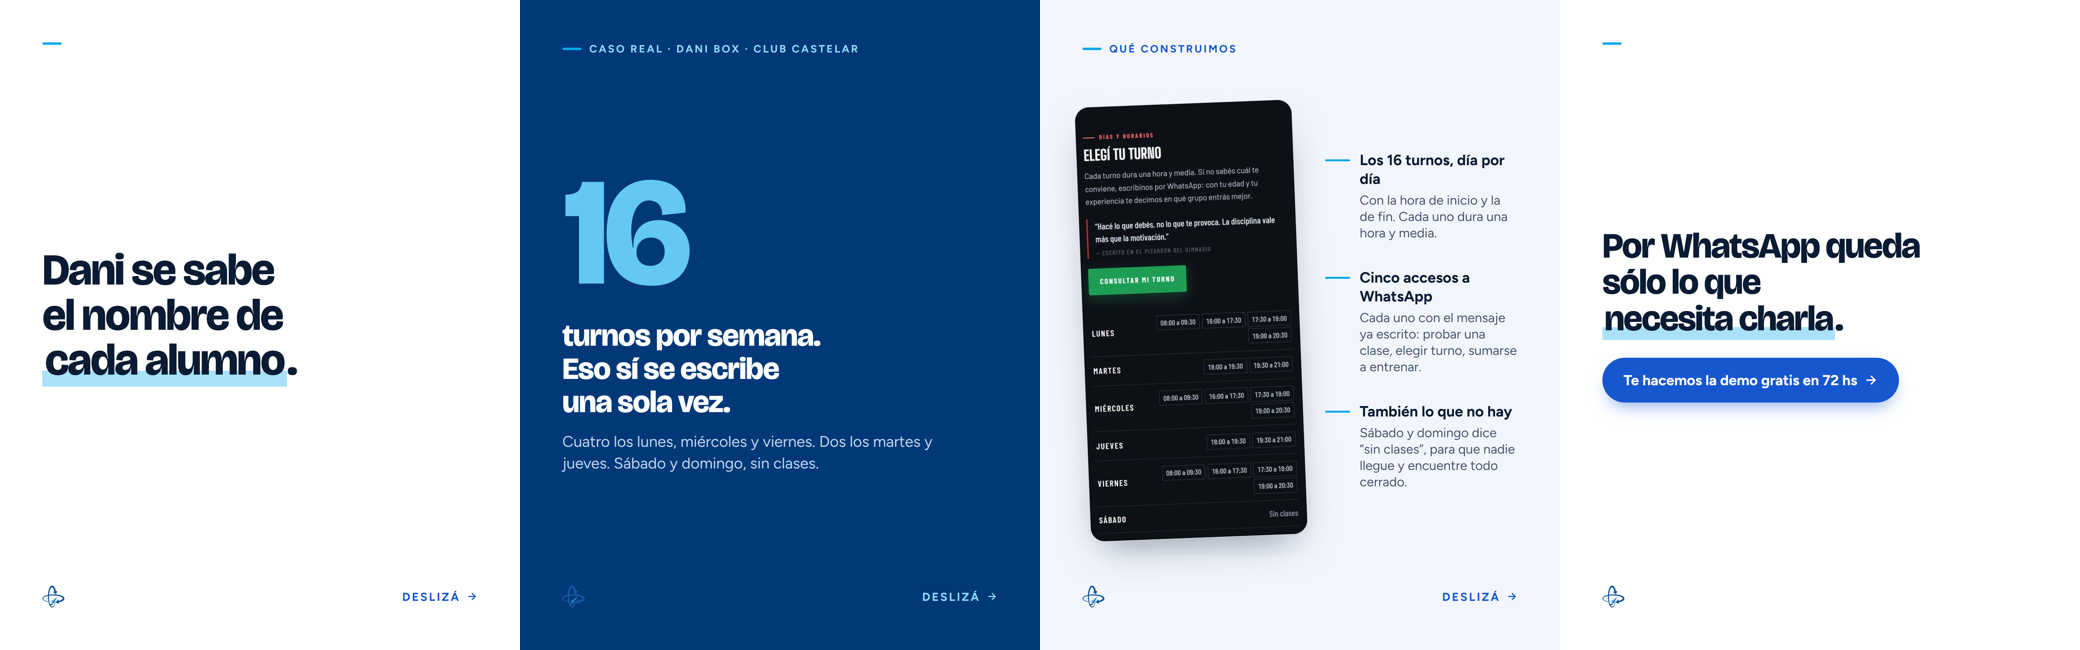
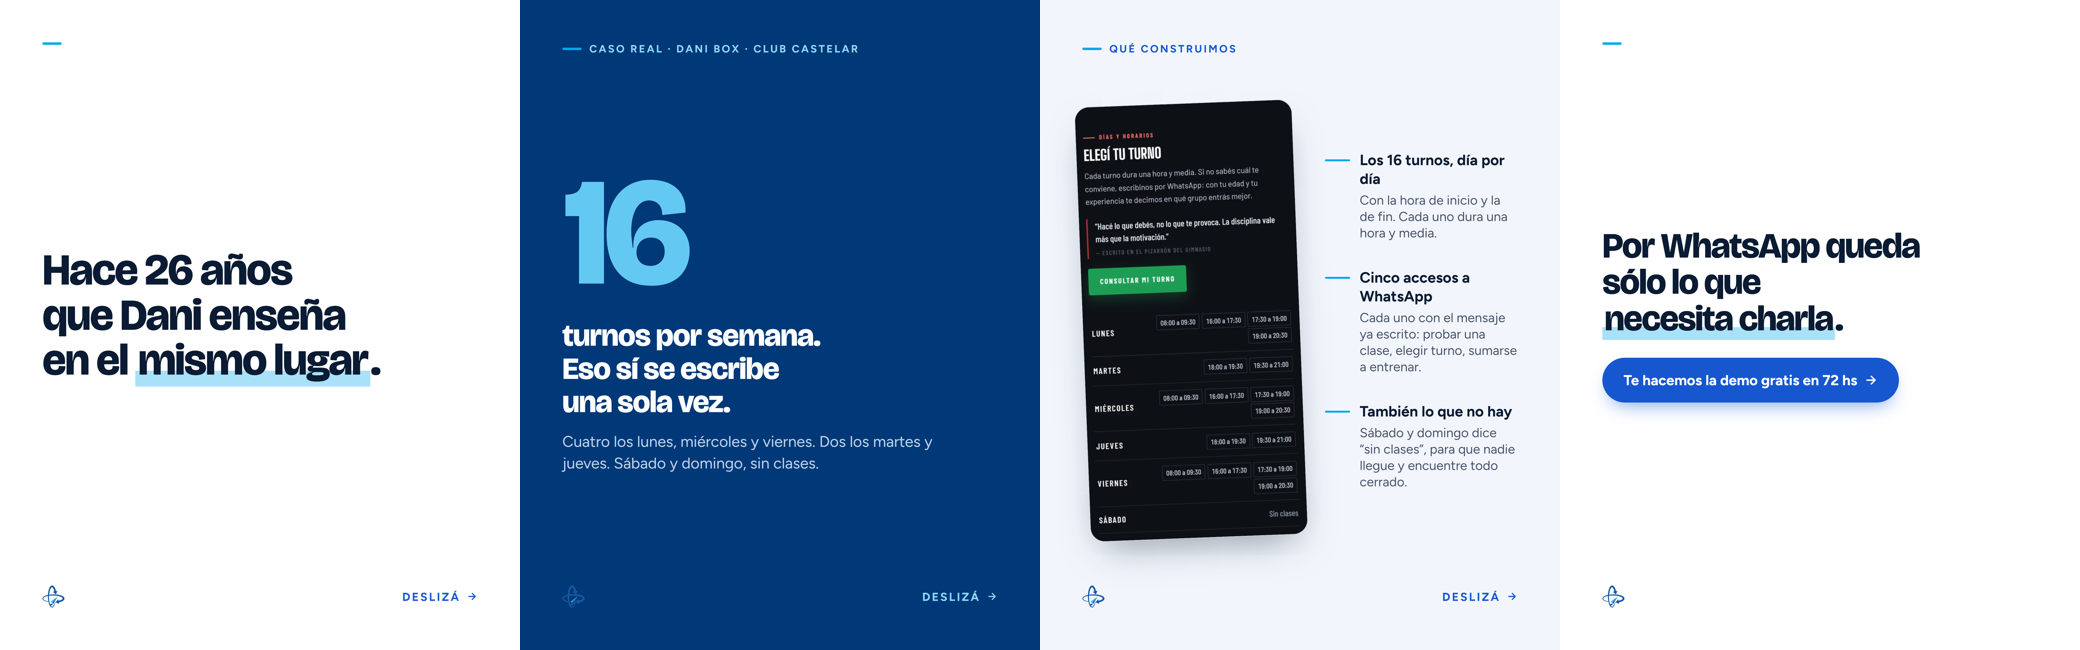
Hook B: 26 anos ensenando en el mismo lugar
Mateo confirma 26, no 25. La web de Dani BOX todavia dice 25 en el hero
y en la seccion del profe: hay que corregirla.

Changed region(s): [[0.0, 0.3692, 0.1875, 0.6154]]

diff --git a/contenido/carruseles/04-danibox/index.html b/contenido/carruseles/04-danibox/index.html
@@ -122,7 +122,7 @@ ol.pasos .pa{font-weight:400;color:var(--ink-2);display:block;font-size:30px;mar
 }
 </style><section class="slide ">
   <div class="eyebrow"><i class="dash"></i></div>
-  <div class="body-zone"><h1 class="lg">Dani se sabe<br>el nombre de<br><span class="mark">cada alumno</span>.</h1></div>
+  <div class="body-zone"><h1 class="lg">Hace 26 años<br>que Dani enseña<br>en el <span class="mark">mismo lugar</span>.</h1></div>
   <div class="foot">
[1 lines of base64/hex data omitted]
     <div class="swipe">Deslizá <svg class="arw" viewBox="0 0 24 24" fill="none" stroke="currentColor" stroke-width="2.6" stroke-linecap="round" stroke-linejoin="round"><path d="M4 12h14M12 5l7 7-7 7"/></svg></div>

diff --git a/contenido/carruseles/04-danibox/make.py b/contenido/carruseles/04-danibox/make.py
@@ -8,7 +8,8 @@ etiqueta, y el pie queda minimo: asi los edito Mateo a mano en Canva.
 Verificado en dani-box.vercel.app el 20/09/2026: 16 turnos por semana
 (4 los lunes, miercoles y viernes; 2 los martes y jueves; sabado y domingo sin
 clases), cada turno de una hora y media, y 5 accesos a WhatsApp, cada uno con
-su mensaje ya escrito.
+su mensaje ya escrito. Los 26 anos los confirmo Mateo: la web todavia
+dice 25.
 """
 import pathlib, sys
 sys.path.insert(0, str(pathlib.Path(__file__).resolve().parents[2]))
@@ -20,7 +21,7 @@ CELU = img('trabajos/danibox-castelar-horarios-celular.webp', 'image/webp')
 
 SLIDES = [
     ('', '',
-     h('Dani se sabe<br>el nombre de<br><span class="mark">cada alumno</span>.', 'lg')),
+     h('Hace 26 años<br>que Dani enseña<br>en el <span class="mark">mismo lugar</span>.', 'lg')),
 
     ('navy', 'Caso real · Dani BOX · Club Castelar',
      dato('16', 'turnos por semana.<br>Eso sí se escribe<br>una sola vez.',
